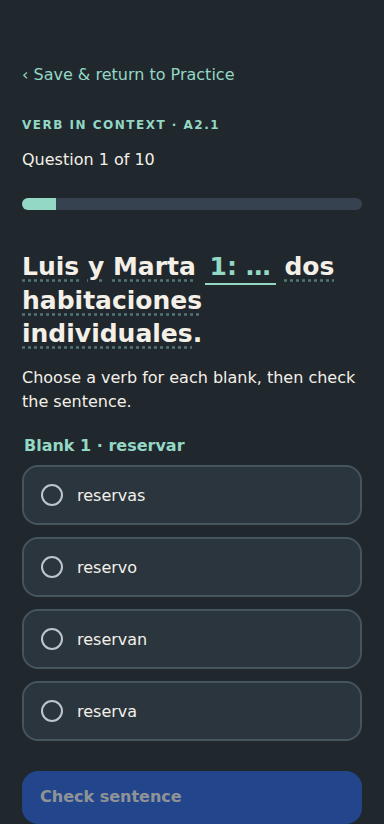
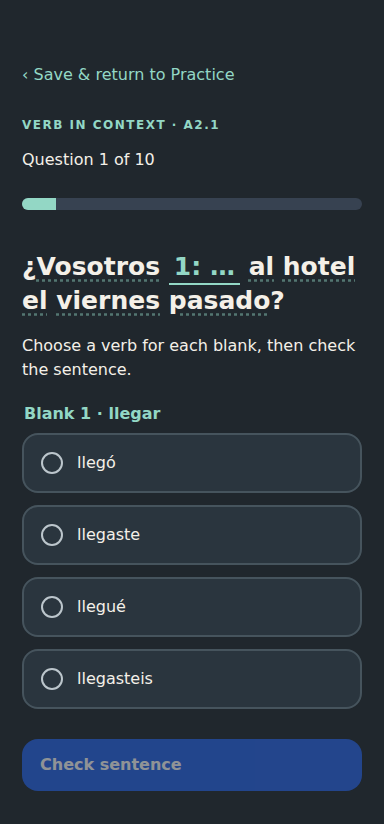
Release v1.7: validated Practice depth, replay audits and refreshed Android showcase

Changed region(s): [[0.0312, 0.3034, 0.9688, 1.0], [0.9062, 0.5158, 0.9375, 0.5461]]

diff --git a/BUILD_STATUS.md b/BUILD_STATUS.md
@@ -1,6 +1,21 @@
-# v1.7.0 release validation
+# Build and validation status — 1.7.0
 
-Implementation complete; the full gate and showcase recapture are in progress. Do not treat this working-branch section as a passed release. Exact results will be recorded after CI browser/native validation. Version 1.7.0 / Android 18. No physical-device or human educator/native-speaker validation is claimed. See [the v1.7 report](docs/release/V1_7_REPORT.md).
+Base main: `d69d64f727ea9eee5520057e5ac2bb4df00b94ab`. Version **1.7.0**, Android **versionCode 18**. Same eleven Practice activities and A1.1–B2.2 course; no course-content, ID, schema or dependency expansion.
+
+## Performed release gate
+
+The complete runtime gate passed in [run 40415569843](https://github.com/mmwiza1/Friends-to-Amigos/actions/runs/40415569843), commit `cce5ed2a8f6a7ccdfc6156e3a6d44c33e3d7b45a`:
+
+- `npm run check`, `npm run audit`, recommendation/learning/story audits and `node scripts/learner-release-audit.cjs`: passed (report audit also performed locally).
+- `npm test` (CI Node 22): **2,068 passed, 0 failed, 0 cancelled, 0 skipped, 0 todo**. All previous cases remain; **334** focused Practice-depth cases cover the new formatters, explicit errors, source gates, replay, snapshots and evidence.
+- `npm run audit:practice-depth`: passed. Twenty rounds for each activity/stage: **4,800 questions**. Builder/Numbers show zero exact repeats at every stage. Spot exhausts eligible authored contexts before repetition, with 15 necessary repeats over 200 questions at full B2.2 eligibility. Tests also complete **800 Builder rounds / 8,000 questions**.
+- `npm run check:browser`: **17 layouts, 38,868 assertions, 0 failed layouts**. Retains Samsung profiles and generic Pixel-class widths; adds generated clocks/dates, granular mixed rounds and related-challenge resume. Conditions are simulated, not real device/keyboard/acoustic validation.
+- `gradle -p android assembleDebug lintDebug testDebugUnitTest`: **BUILD SUCCESSFUL in 17s, 47 tasks executed**. Downloaded JUnit XML confirms **15 tests, 0 failures/errors/skips** (launcher 2, insets 8, native policy 5). Downloaded lint XML confirms **0 errors/fatal issues, 12 existing warnings**.
+- Downloaded APK integrity: **all 77 web files exactly match** the runtime/showcase SHA-256 manifest. Fifteen README PNGs were copied unmodified from this run; every PNG and every web asset is checked by the showcase regression.
+
+The documentation/showcase release commit repeats the complete workflow before main promotion. The runtime is unchanged from the validated capture. The new [implementation report](docs/release/V1_7_REPORT.md), [replay data](docs/release/v17-practice-depth.json), [release notes](docs/release/V1_7_RELEASE_NOTES.md) and [manual QA](docs/release/V1_7_MANUAL_QA.md) describe exact boundaries.
+
+**Ready for physical-device testing after the final main gate.** No physical device, emulator, acoustic TTS, independent educator or native-speaker validation is claimed. Finite reconstruction, a bounded early correction pool, twelve-hour clock tasks and non-leap dates are intentional limits. Preserve an exported backup if CI debug signing differs and an uninstall is necessary.
 
 <details><summary>Historical validation through v1.6</summary>
 

diff --git a/docs/release/V1_7_REPORT.md b/docs/release/V1_7_REPORT.md
@@ -30,7 +30,11 @@ Schema/key remain v2 / friends-to-amigos-v1. Optional validated practiceCategory
 
 ## Validation evidence
 
-Implementation validation is in progress. Exact performed counts, replay tables, rendered capture and native build evidence will be filled after the full release gate; no pending check is claimed passed.
+The complete runtime gate passed in [run 40415569843](https://github.com/mmwiza1/Friends-to-Amigos/actions/runs/40415569843), runtime commit `cce5ed2a8f6a7ccdfc6156e3a6d44c33e3d7b45a`. Static/course checks and all recommendation, learning-load, story, learner-release and Practice-depth audits passed. CI `npm test`: **2,068 passed / 0 failed / 0 cancelled / 0 skipped / 0 todo**, including 334 new depth cases. The suite covers all 10,000 cardinal values, exact 0–100 spellings, representative/edge hundreds and noun agreement, all 24-hour/five-minute formatter combinations and SVG hand angles, 365 valid non-leap dates, 99,900 integer-cent price checks, every error row, old snapshots, actual taught sources, no fake course completion and no doubled grammar evidence. Granular numeric weaknesses remain in Fix My Mistakes even after an exact Review is corrected.
+
+Rendered Chromium: **38,868 assertions / 17 layouts / 0 failed layouts**, including original narrow/Samsung/Pixel-class, large-text, landscape/cutout and simulated IME/inset conditions. Fifteen README images are unmodified captures from the same exact 77-file runtime. Representative final dark clock and large-text Builder captures, plus narrow date and landscape correction captures, were visually inspected. They require scrolling at large text/short landscape heights; controls remain reachable and no horizontal overflow was detected.
+
+Android: **assembleDebug, lintDebug and testDebugUnitTest passed**, BUILD SUCCESSFUL in 17s / 47 tasks. Downloaded native reports: **15 tests / 0 failures, errors or skips**; lint **0 errors / 12 existing warnings**. All 77 packaged runtime SHA-256s equal the showcase manifest. The documentation/showcase-only release commit repeats the full gate before main promotion; runtime remains identical. See BUILD_STATUS.md for evidence and device limits.
 
 ## Limitations / human review
 

diff --git a/docs/STATE_AND_QUESTIONS.md b/docs/STATE_AND_QUESTIONS.md
@@ -165,7 +165,7 @@ Optional reading `episode` metadata validates the three-character primary IDs, c
 
 ## Optional v1.6 Practice data
 
-`practiceHub` is optional under schema v2: bounded `recent` (100), `history` (40) and one `active` ten-item quiz snapshot. Missing fields do not invalidate old saves. The active snapshot validates kind/stage, unique question IDs, selections, question contracts, playback/model gates and checked results; it is never regenerated from live content. `practiceVisual` may contain `{kind:"clock",hour:0..23,minute:0..59}` on a question, retained by snapshot validation. Recognition/self-assessment is not independent recall; skips are not mastery successes. No practice path calls `Engine.complete`. Internal Games routes, games/blanks data, schema version/key and historical Review snapshots remain intact. B-level best keys now survive strict existing game sanitisation.
+`practiceHub` is optional under schema v2: bounded `recent` (100 in v1.6, 300 from v1.7), `history` (40) and one `active` ten-item quiz snapshot. Missing fields do not invalidate old saves. The active snapshot validates kind/stage, unique question IDs, selections, question contracts, playback/model gates and checked results; it is never regenerated from live content. `practiceVisual` may contain `{kind:"clock",hour:0..23,minute:0..59}` on a question, retained by snapshot validation. Recognition/self-assessment is not independent recall; skips are not mastery successes. No practice path calls `Engine.complete`. Internal Games routes, games/blanks data, schema version/key and historical Review snapshots remain intact. B-level best keys now survive strict existing game sanitisation.
 
 ## v1.7 Practice depth
 

diff --git a/COURSE_DESIGN.md b/COURSE_DESIGN.md
@@ -1,4 +1,4 @@
-## Current experience and Stories policy (v1.6)
+## Current experience and Stories policy (v1.7)
 
 One obvious next action, then optional detail. Home prioritises Continue / Today / relevant Needs Attention and one recommendation. Practice is the optional skill hub, separate from scheduled Review. Verb in Context preserves ten-question Conjugations; Verb Trainer preserves six-person table drills. Grammar controls live inside each engine’s Custom practice, with deliberate advanced choices available. New skills use reached activities and encountered vocabulary; beginners receive greeting/name construction first. Learn keeps the current unit first and revision accessible. Profile retains Vocabulary, Grammar Reference and progress. Review groups Due Today / Weak Areas / Past Mistakes. The visible five-tab order is Home / Learn / Practice / Review / Profile; internal Games routes remain compatible.
 
